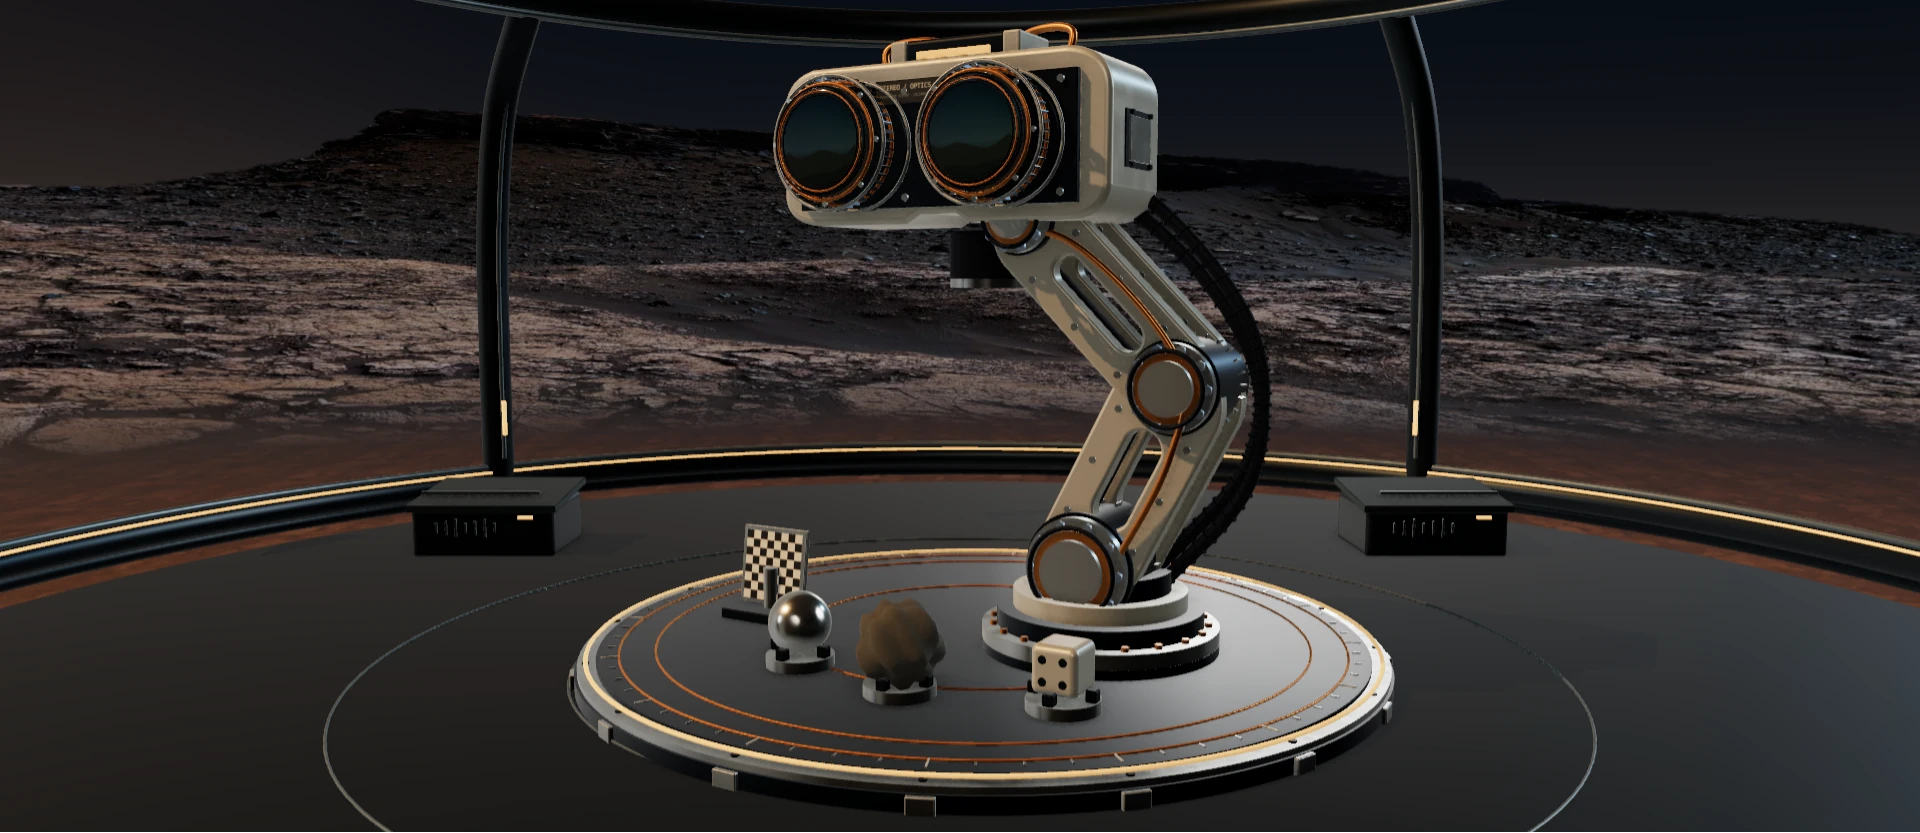
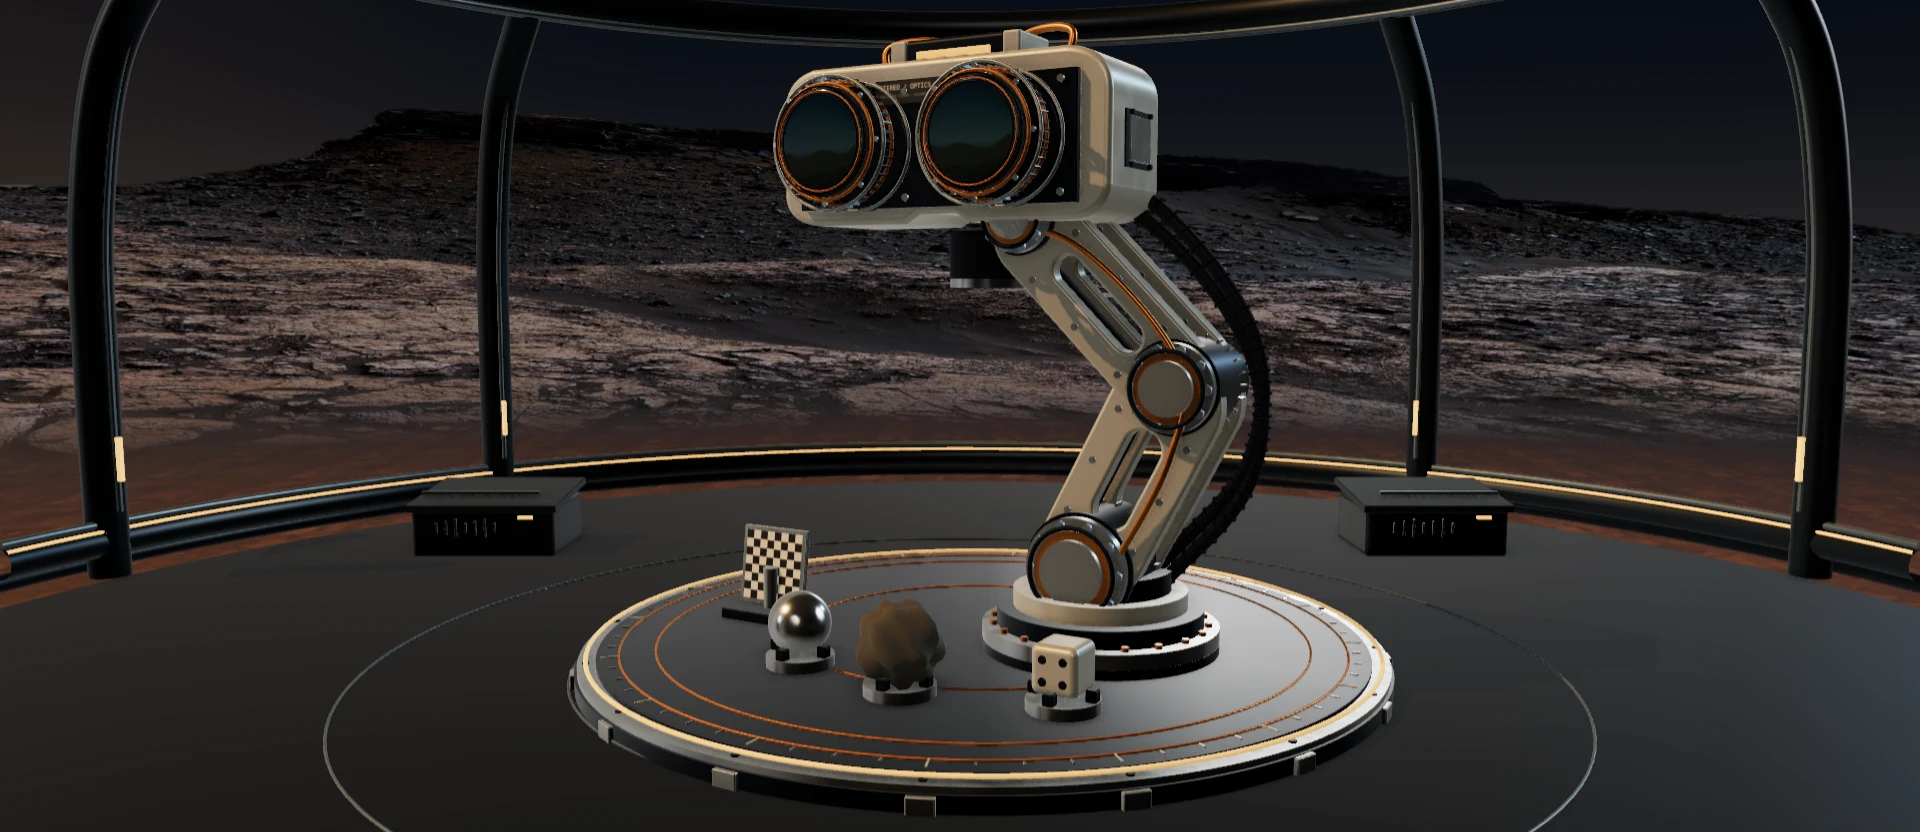
Keep the observation frame clear of the inspection camera

Changed region(s): [[0.0, 0.0, 0.0938, 0.7179], [0.9062, 0.0936, 1.0, 0.7179]]

diff --git a/src/scripts/study-lab.ts b/src/scripts/study-lab.ts
@@ -95,7 +95,7 @@ export function makeObservationLab({
         mat: T.Material,
     ) => {
         const points = Array.from({ length: 81 }, (_, i) => {
-            const angle = -1.95 + (i / 80) * 3.9;
+            const angle = -1.4 + (i / 80) * 2.8;
             return new T.Vector3(
                 Math.sin(angle) * radius,
                 height,
@@ -114,15 +114,15 @@ export function makeObservationLab({
             [0, 0, 0],
         );
     };
-    // A continuous sill and widely spaced ribs frame the landscape without a
-    // fence across the robot. Their curvature stays legible from either side.
+    // Keep every support behind the inspection area. The widest orbit and
+    // dolly must not move the camera outside a forward-curving window frame.
     arc(10.2, -1.85, 0.18, graphite);
     arc(10.15, -1.64, 0.045, trim);
     arc(10.07, -1.71, 0.018, light);
     arc(10.4, -2.1, 0.1, graphite);
     arc(8.6, 4.9, 0.28, graphite);
     arc(8.44, 4.66, 0.045, trim);
-    for (const angle of [-1.72, -0.74, 0.74, 1.72]) {
+    for (const angle of [-1.27, -0.74, 0.74, 1.27]) {
         const point = (radius: number, y: number) =>
             new T.Vector3(
                 Math.sin(angle) * radius,
